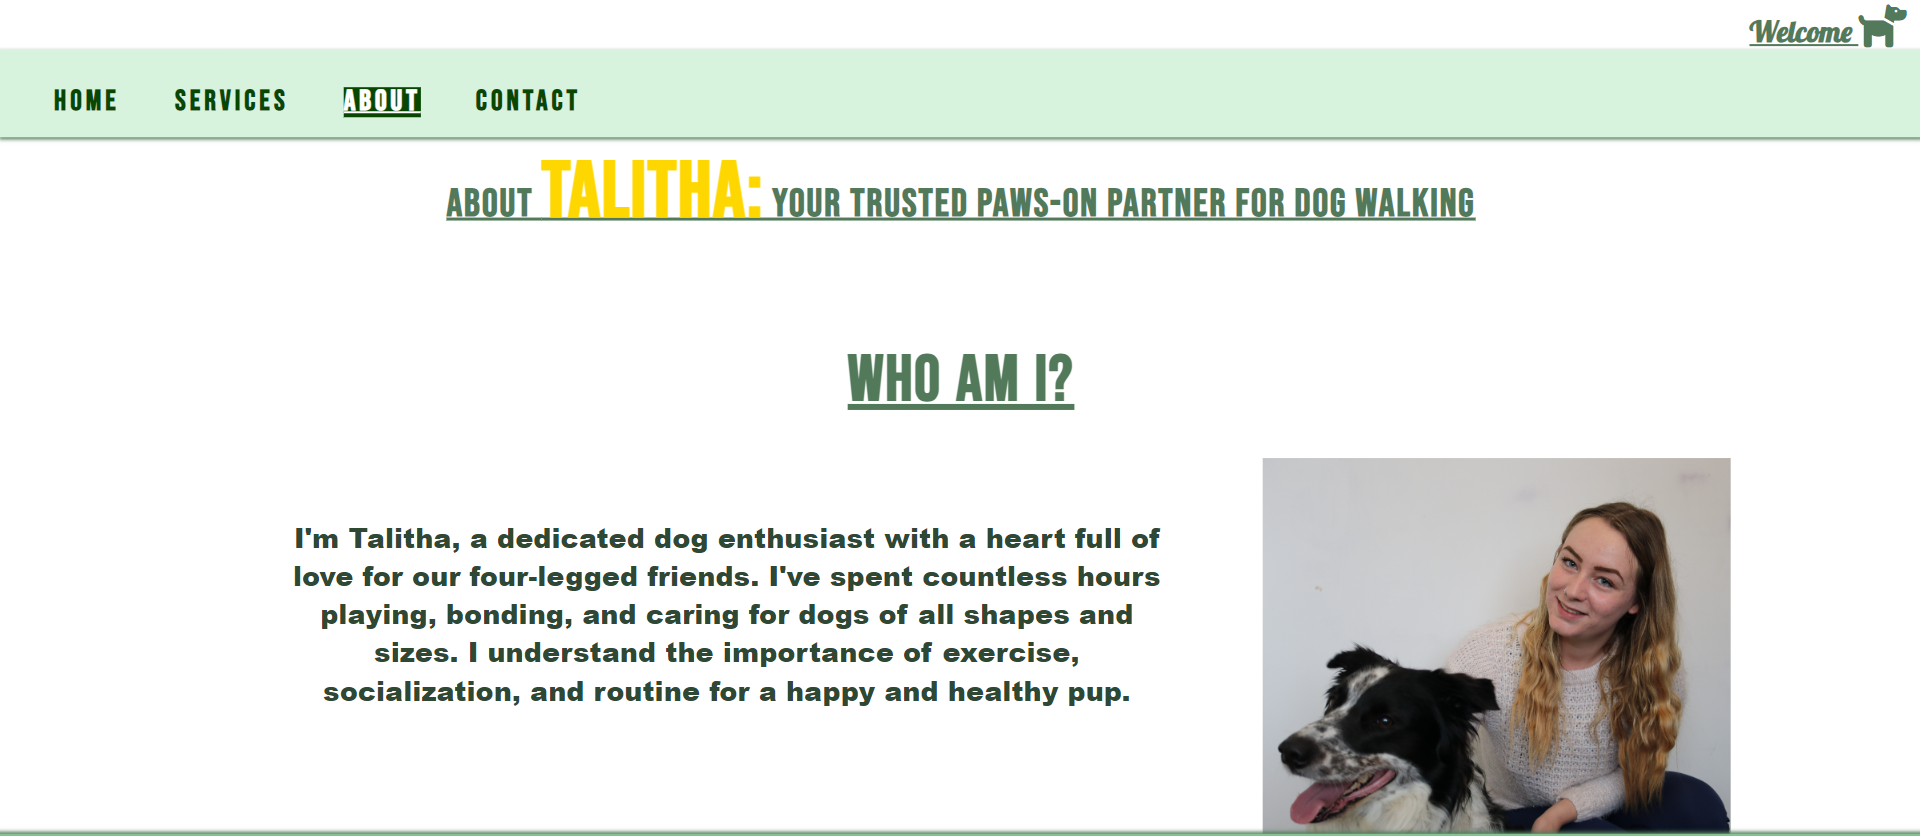
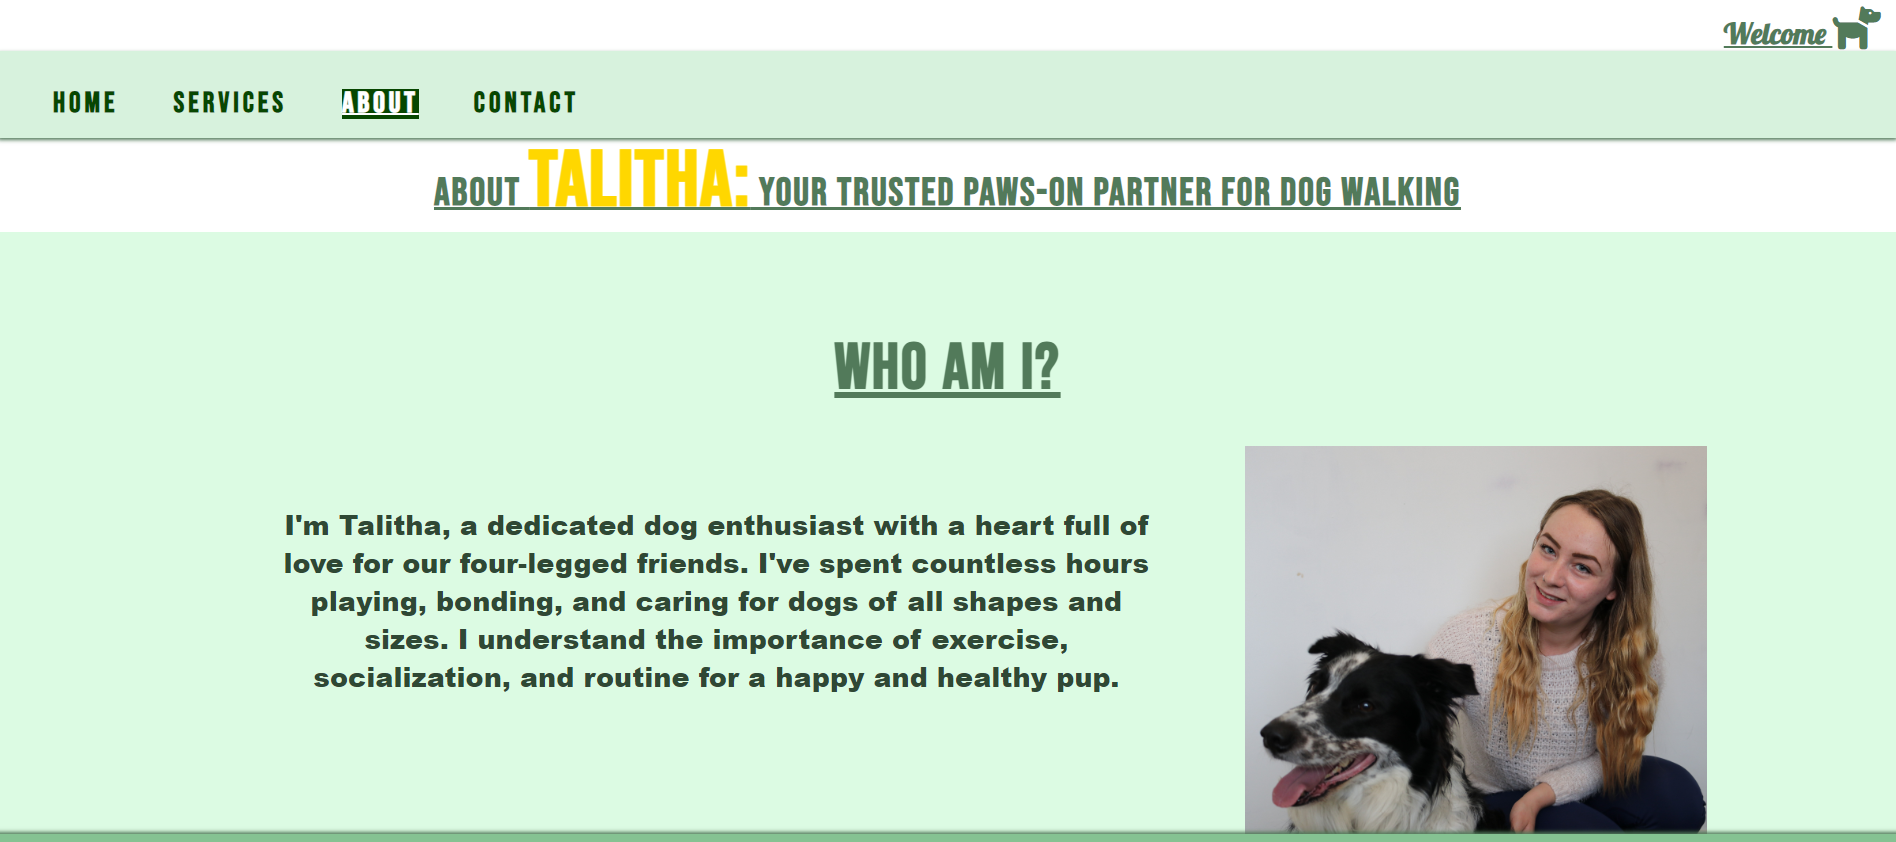
added background to about for screen 567px up to break up the white and added features to readme

diff --git a/about.html b/about.html
@@ -74,9 +74,10 @@
         <section class="about">
             <!--Personal profile section with image-->
             <h2 class="about-header">About <strong>Talitha:</strong> Your Trusted Paws-On Partner For Dog Walking</h2>
-            <h3 class="third-header about-headers-three">Who Am I?</h3>
-            <div class="about-container">
-                <p>I'm Talitha, a dedicated dog enthusiast with a heart full of love for our four-legged friends. I've spent countless
+            <div class="about-background">
+                <h3 class="third-header about-headers-three">Who Am I?</h3>
+                <div class="about-container">
+                    <p>I'm Talitha, a dedicated dog enthusiast with a heart full of love for our four-legged friends. I've spent countless
                     hours playing, bonding, and caring for dogs of all shapes and sizes. I understand the importance of exercise,
                     socialization, and routine for a happy and healthy pup.</p>
 
@@ -84,7 +85,7 @@
                     <img src="assets/images/about-tal-img.JPG" alt="Talitha With Her Dog Beau" aria-label="Talitha, owner of 
                         Walking with Talitha and her Border Collie Beau">
                 </div>
-            </div>    
+            </div>       
 
             <h3 class="third-header about-headers-three">Why Choose Me</h3>
                 <ul>

diff --git a/assets/css/style.css b/assets/css/style.css
@@ -690,6 +690,11 @@ footer {
     }
 
     /*About*/
+    .about-background {
+        background-color: #c6f9d19d;
+
+    }
+
     .about-container {
         display: flex;
         flex-wrap: nowrap;
